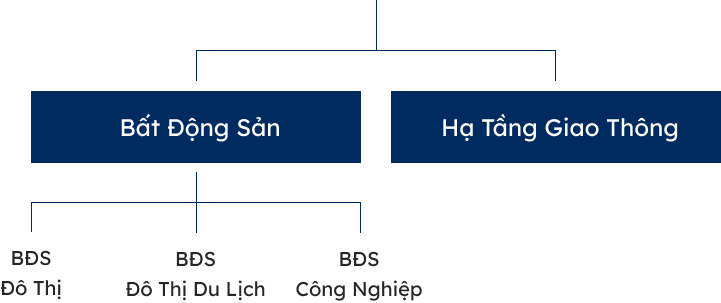
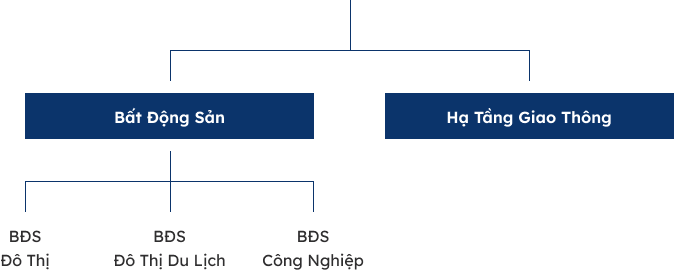
:art: hotfix(NLW-59): refactor size image

diff --git a/src/components/templates/FieldActivity/index.tsx b/src/components/templates/FieldActivity/index.tsx
@@ -21,7 +21,7 @@ const FieldActivity: React.FC<FieldActivityProps> = ({ title, imgSrc }) => (
         <div className="t-fieldActivity_thumbnail u-mt-16 u-mt-sm-24 u-mt-lg-32">
           <Image
             src={imgSrc}
-            ratio="721x303"
+            ratio="674x272"
             alt="field_activity"
           />
         </div>

diff --git a/src/components/atoms/Image/index.scss b/src/components/atoms/Image/index.scss
@@ -55,8 +55,8 @@
     @include aspect-ratio(1371, 620);
   }
 
-  &-721x303 {
-    @include aspect-ratio(721, 303);
+  &-674x272 {
+    @include aspect-ratio(674, 272);
   }
 
   &-350x197 {

diff --git a/src/components/types.d.ts b/src/components/types.d.ts
@@ -6,7 +6,7 @@ type Ratio =
   | '174x136'
   | '1126x376'
   | '1371x620'
-  | '721x303'
+  | '674x272'
   | '370x208'
   | '226x127'
   | '350x197'
